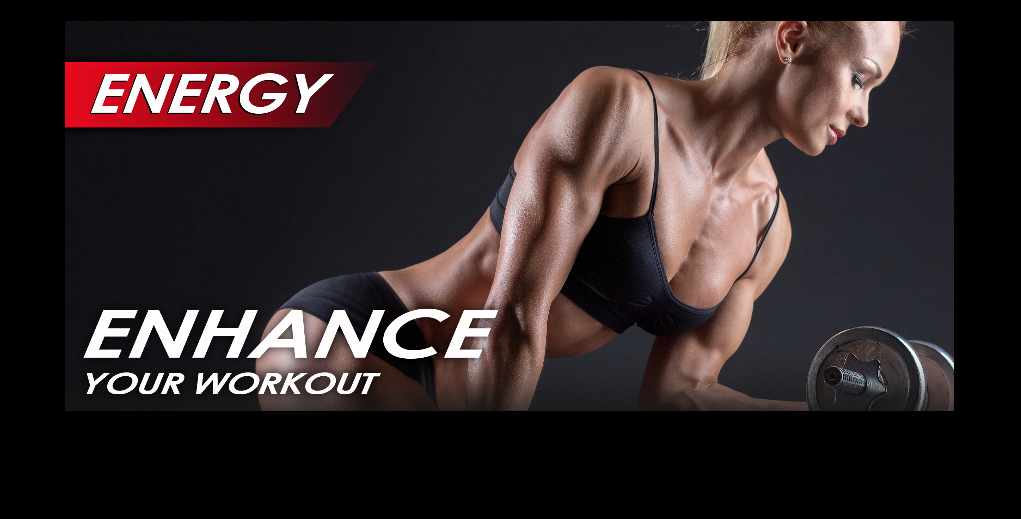
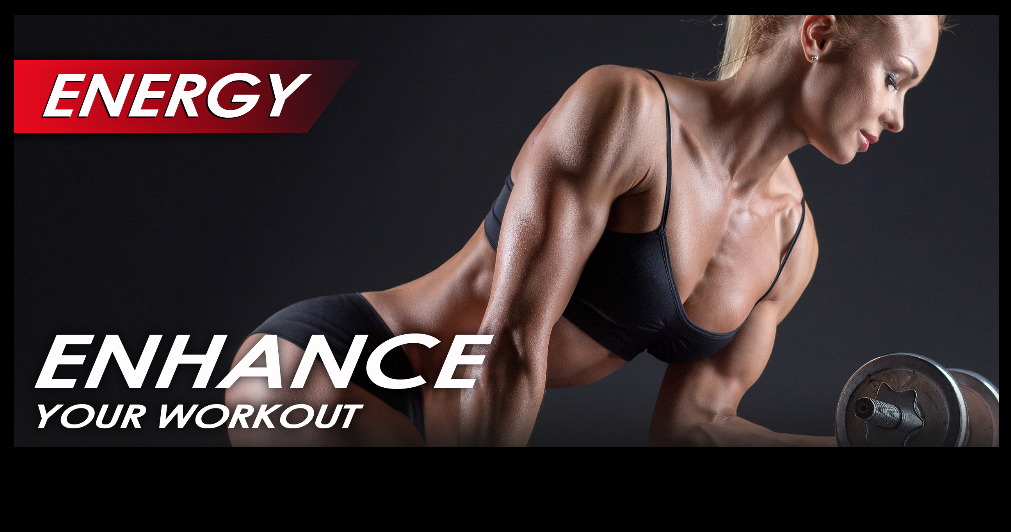
push

diff --git a/public/index.html b/public/index.html
@@ -137,7 +137,7 @@
 														<!-- SLIDE  -->
 														<li data-transition="random" data-slotamount="7" data-masterspeed="300"  data-saveperformance="off">
 
-															<img src="images/b12.png"  alt="slide-3"  data-bgposition="center top" data-bgfit="cover" data-bgrepeat="no-repeat">
+															<img src="images/b4.png"  alt="slide-3"  data-bgposition="center top" data-bgfit="cover" data-bgrepeat="no-repeat">
 															<div class="tp-caption theairslicesubtitle sfb tp-resizeme"
 																 data-x="100"
 																 data-y="289"
@@ -181,7 +181,7 @@
 															</div>
 														</li>
 														<li data-transition="random" data-slotamount="7" data-masterspeed="300"  data-saveperformance="off" >
-															<img src="images/banner1.jpg"  alt="home-slide"  data-bgposition="center top" data-bgfit="cover" data-bgrepeat="no-repeat">
+															<img src="images/b12.png"  alt="home-slide"  data-bgposition="center top" data-bgfit="cover" data-bgrepeat="no-repeat">
 															<div class="tp-caption theairslicesubtitle sft tp-resizeme"
 																 data-x="195"
 																 data-y="291"
@@ -244,7 +244,7 @@
 														
 														<!-- SLIDE  -->
 														<li data-transition="random" data-slotamount="7" data-masterspeed="300"  data-saveperformance="off" >
-															<img src="images/banner3.jpg"  alt="slide-3"  data-bgposition="center top" data-bgfit="cover" data-bgrepeat="no-repeat">
+															<img src="images/b3.png"  alt="slide-3"  data-bgposition="center top" data-bgfit="cover" data-bgrepeat="no-repeat">
 															<div class="tp-caption theairslicesubtitle sfb tp-resizeme"
 																 data-x="191"
 																 data-y="289"
@@ -269,7 +269,7 @@
 																 data-elementdelay="0.1"
 																 data-endelementdelay="0.1"
 																 data-endspeed="300">
-																 <span><h3>STRENGTH</h3></span>
+																 <span><h3></h3></span>
 															</div>
 															<div class="tp-caption sft tp-resizeme"
 																 data-x="316"
@@ -289,51 +289,7 @@
 															</div>
 														</li>
 														<!-- SLIDE  -->
-														<li data-transition="random" data-slotamount="7" data-masterspeed="300"  data-saveperformance="off" >
-															<img src="images/banner4.jpg"  alt="slide-3"  data-bgposition="center top" data-bgfit="cover" data-bgrepeat="no-repeat">
-															<div class="tp-caption theairslicesubtitle sfb tp-resizeme"
-																 data-x="191"
-																 data-y="289"
-																 data-speed="300"
-																 data-start="500"
-																 data-easing="Power3.easeInOut"
-																 data-splitin="none"
-																 data-splitout="none"
-																 data-elementdelay="0.1"
-																 data-endelementdelay="0.1"
-																 data-endspeed="300">
-																 <span></span>
-															</div>
-															<div class="tp-caption theairslicetitle sfb tp-resizeme"
-																 data-x="270"
-																 data-y="300"
-																 data-speed="300"
-																 data-start="800"
-																 data-easing="Power3.easeInOut"
-																 data-splitin="none"
-																 data-splitout="none"
-																 data-elementdelay="0.1"
-																 data-endelementdelay="0.1"
-																 data-endspeed="300">
-																 <span><h2>ENDURANCE</h2></span>
-															</div>
-															<div class="tp-caption sft tp-resizeme"
-																 data-x="316"
-																 data-y="467"
-																 data-speed="300"
-																 data-start="1100"
-																 data-easing="Power3.easeInOut"
-																 data-splitin="none"
-																 data-splitout="none"
-																 data-elementdelay="0.1"
-																 data-endelementdelay="0.1"
-																 data-endspeed="300">
-															
-					                                            
-					                                        </button>
-
-															</div>
-														</li>
+														
 														</div>
 
 														
